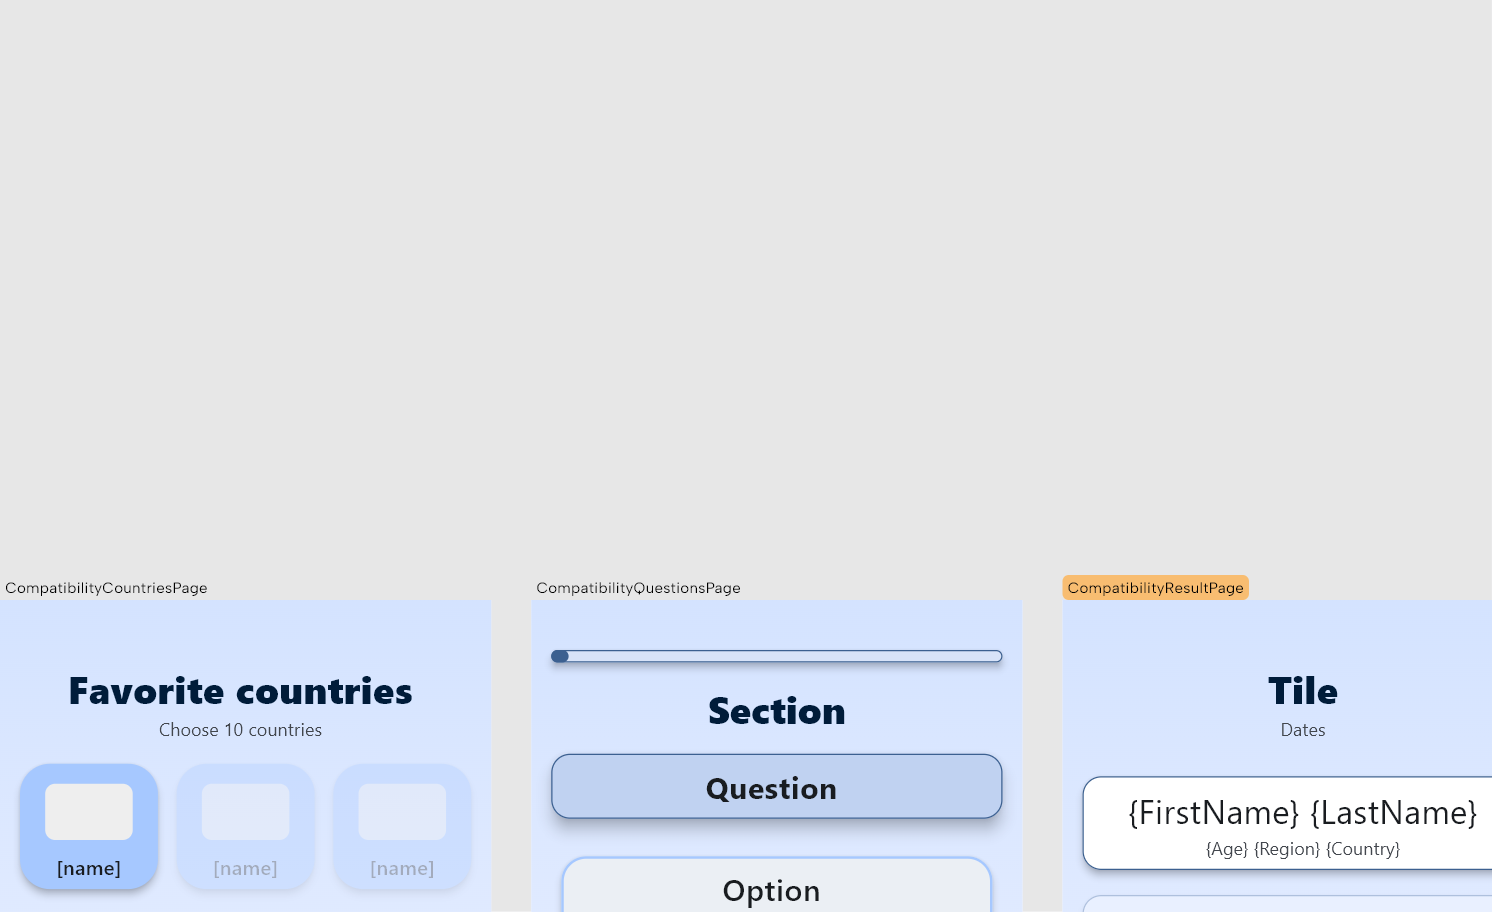
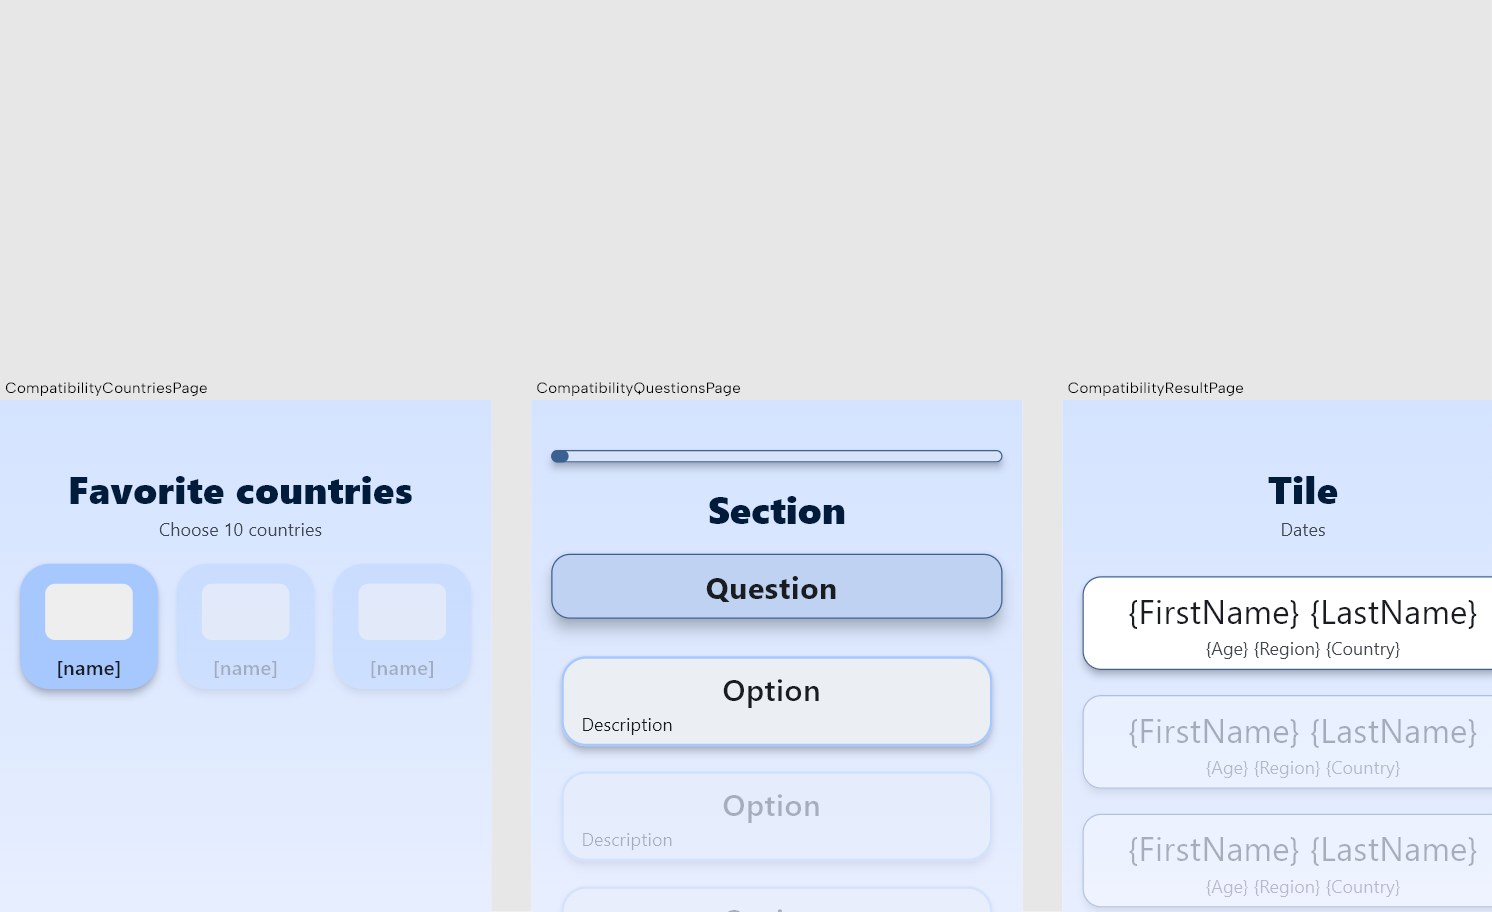
✨ Add getAllCompatibility_destinations method to SupabaseService and integrate in CompatibilityCountriesPage to load selected countries

diff --git a/lib/pages/compatibility_countries_page.dart b/lib/pages/compatibility_countries_page.dart
@@ -1,9 +1,9 @@
 import 'package:flutter/material.dart';
 import 'package:railmates/models/compatibility_destinations_model.dart';
 import 'package:nowa_runtime/nowa_runtime.dart';
+import 'package:railmates/integrations/supabase_service.dart';
 import 'package:railmates/models/countries_model.dart';
 import 'package:flutter_svg/flutter_svg.dart';
-import 'package:railmates/integrations/supabase_service.dart';
 
 @NowaGenerated()
 class CompatibilityCountriesPage extends StatefulWidget {
@@ -21,7 +21,17 @@ class _CompatibilityCountriesPageState
     extends State<CompatibilityCountriesPage> {
   List<CompatibilityDestinationsModel>? selectedCountries = [];
 
-  bool isButtonEnabled = false;
+  @override
+  void initState() {
+    super.initState();
+    _loadSelectedCountries();
+  }
+
+  Future<void> _loadSelectedCountries() async {
+    selectedCountries = await SupabaseService()
+        .getAllCompatibility_destinations();
+    setState(() {});
+  }
 
   @override
   Widget build(BuildContext context) {
@@ -116,7 +126,6 @@ class _CompatibilityCountriesPageState
                               return;
                             }
                           }
-                          isButtonEnabled = selectedCountries?.length == 10;
                           setState(() {});
                         },
                         child: Material(
@@ -191,7 +200,7 @@ class _CompatibilityCountriesPageState
                 width: null,
                 height: null,
                 child: ElevatedButton(
-                  onPressed: isButtonEnabled
+                  onPressed: (selectedCountries?.length == 10)
                       ? () async {
                           await SupabaseService()
                               .deleteCompatibility_destinations();

diff --git a/lib/integrations/supabase_service.dart b/lib/integrations/supabase_service.dart
@@ -88,7 +88,8 @@ class SupabaseService {
       );
       await Supabase.instance.client
           .from('profiles')
-          .update({'avatar_url': bucket.getPublicUrl(filePath)}).eq('id', uid!);
+          .update({'avatar_url': bucket.getPublicUrl(filePath)})
+          .eq('id', uid!);
     } catch (e) {
       throw Exception('Erreur lors de l\'upload de l\'avatar : ${e}');
     }
@@ -236,5 +237,15 @@ class SupabaseService {
         .from('compatibility_destinations')
         .delete()
         .eq('profile_id', Supabase.instance.client.auth.currentUser!.id);
+  }
+
+  Future<List<CompatibilityDestinationsModel>>
+  getAllCompatibility_destinations() async {
+    final response = await Supabase.instance.client
+        .from('compatibility_destinations')
+        .select('*');
+    return response
+        .map((json) => CompatibilityDestinationsModel.fromJson(json))
+        .toList();
   }
 }
